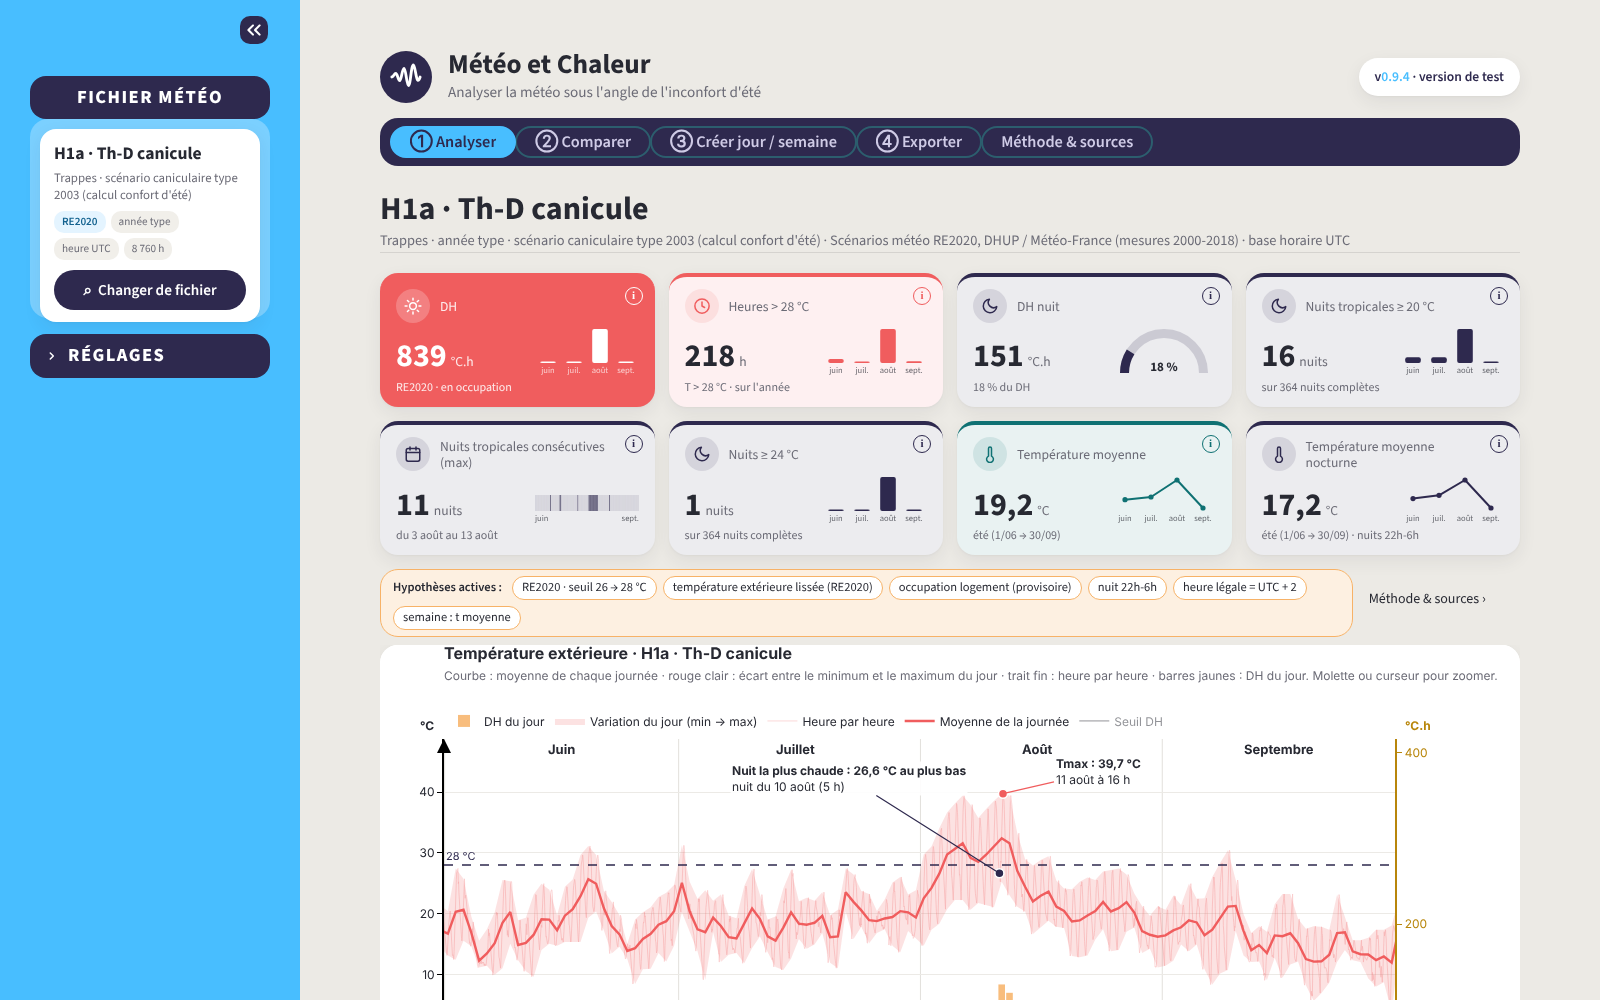
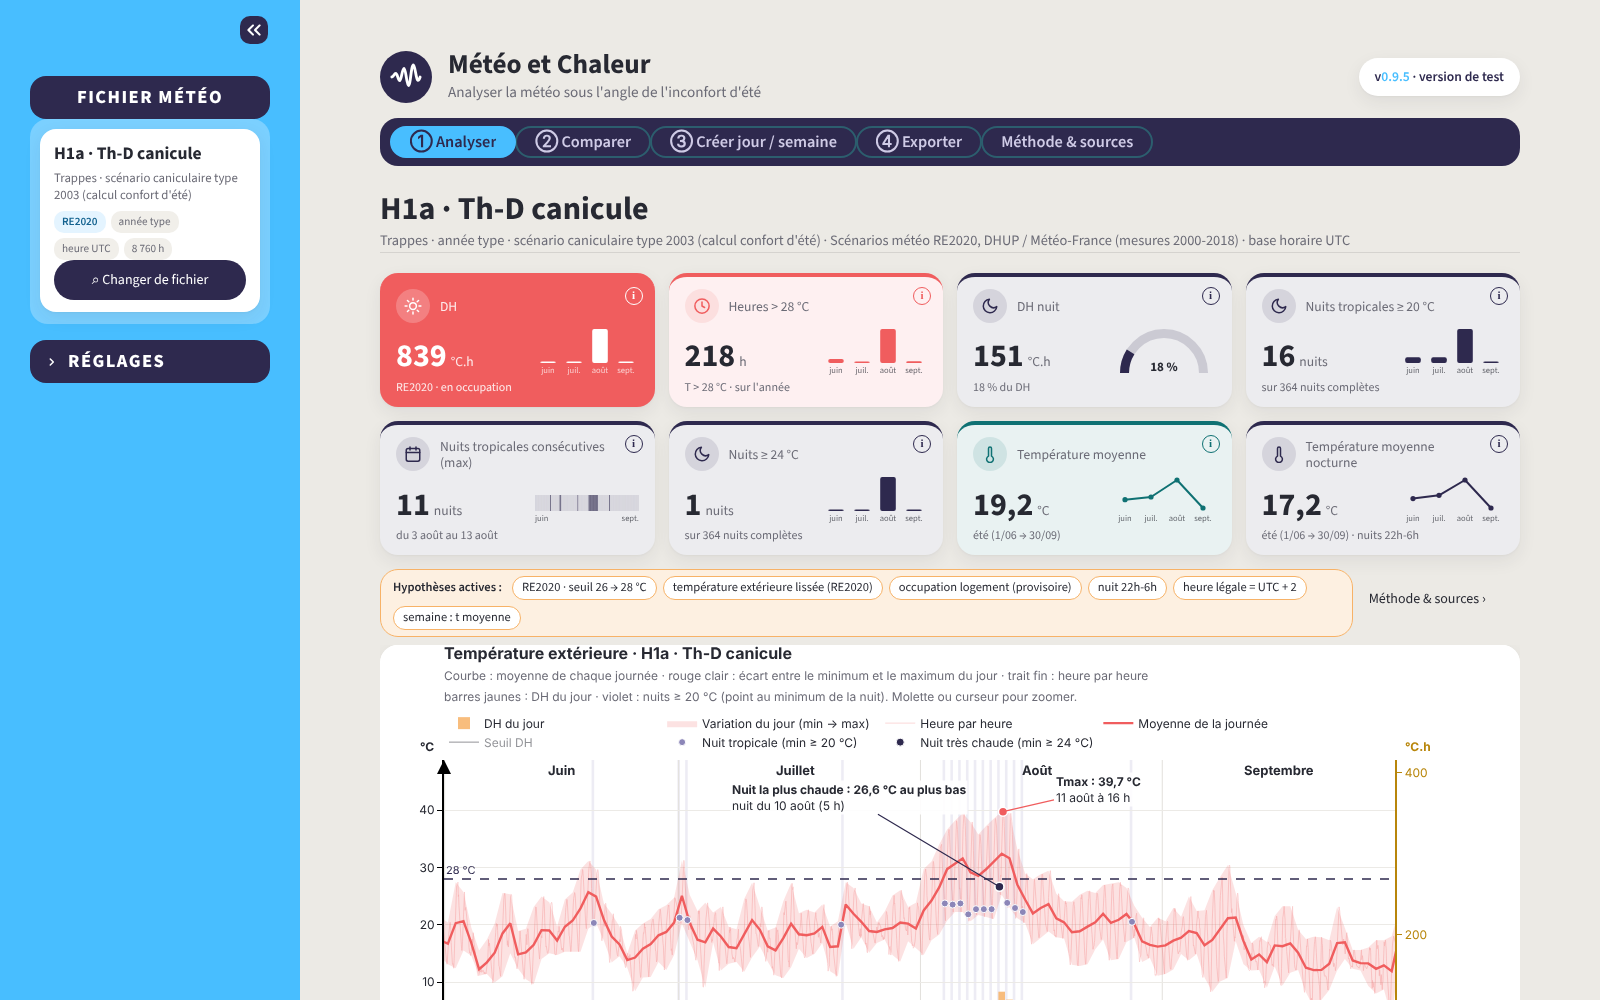
Météo et Chaleur 0.9.5 (version de test, corrections)
Tuiles de la fenêtre de choix cliquables sur toute leur surface ; retour de
la carte du fichier de la 0.9.2 ; nuits >= 20 °C sur le graphique de
l'année ; réglage d'occupation gardé à part des boutons (perdu à la première
ouverture) ; message Windows ConnectionResetError masqué.

Claude-Session: https://claude.ai/code/session_01As3wXfVy4qYwNJMef6KpLN

diff --git a/app.py b/app.py
@@ -27,12 +27,15 @@ from interface.composants import haut_de_page, pied
 # PARAMÈTRES
 # ============================================================
 TITRE_PAGE = "Météo et Chaleur"
-CLES_REGLAGE = {"methode": "r_methode", "occupation": "r_occupation",
+CLES_REGLAGE = {"methode": "r_methode", "occupation": "r_occupation",           # clés des boutons du menu
                 "critere_journee": "r_journee", "critere_semaine": "r_semaine"}
+CLE_REGLAGE_COURANT = "reglage_courant"  # réglage de référence, gardé à part des boutons (voir _reglage_courant)
+CLE_GENERATION_BOUTONS = "generation_boutons"   # change à chaque retour au réglage RE2020
 CLE_INDICATEURS = "r_indicateurs"        # ordre des cartes choisi dans le menu
 INDICATEURS_RESUME = ["dh", "nuits_20"]  # chiffres clés des cartes de la fenêtre de choix (+ T max)
 
 st.set_page_config(page_title=TITRE_PAGE, page_icon="☀", layout="wide")
+erreurs.filtrer_bruit_windows()          # console PowerShell : masque « ConnectionResetError [WinError 10054] »
 
 
 # ============================================================
@@ -81,9 +84,29 @@ CATALOGUE = _catalogue()
 # RÉGLAGES (barre latérale)
 # ============================================================
 
+def _reglage_courant() -> dict:
+    """
+    Réglage de référence (méthode, occupation, critères), gardé À PART des boutons du menu.
+    Raison : au premier chargement, la mémoire du navigateur relance la page pendant le calcul ; Streamlit
+    pouvait alors perdre l'état d'un bouton de la partie repliée (l'occupation repassait à « 24h/24 »).
+    Les calculs lisent ce réglage ; il ne change que quand l'utilisateur clique sur un bouton (_copier_bouton).
+    """
+    return st.session_state.setdefault(CLE_REGLAGE_COURANT, {k: REGLAGE_RE2020[k] for k in CLES_REGLAGE})
+
+
+def _cle_bouton(cle) -> str:
+    """Clé du bouton du menu ; elle change à chaque « Revenir au réglage RE2020 » (boutons recréés, affichage juste)."""
+    return f"{CLES_REGLAGE[cle]}_{st.session_state.setdefault(CLE_GENERATION_BOUTONS, 0)}"
+
+
+def _copier_bouton(cle):
+    """Clic sur un bouton du menu : sa valeur devient le réglage de référence."""
+    _reglage_courant()[cle] = st.session_state[_cle_bouton(cle)]
+
+
 def _reinitialiser():
-    for cle, cle_widget in CLES_REGLAGE.items():
-        st.session_state[cle_widget] = REGLAGE_RE2020[cle]
+    st.session_state[CLE_REGLAGE_COURANT] = {k: REGLAGE_RE2020[k] for k in CLES_REGLAGE}
+    st.session_state[CLE_GENERATION_BOUTONS] = st.session_state.get(CLE_GENERATION_BOUTONS, 0) + 1
     st.session_state["lignes"] = list(REGLAGE_RE2020["lignes"])
     st.session_state[CLE_INDICATEURS] = list(ORDRE_DEFAUT)
 
@@ -147,19 +170,21 @@ def barre_laterale():
     serie = serie_par_cle(choix_fichier.cle_courante(SOURCES))
     choix_fichier.menu(SOURCES, serie, lambda: choix_fichier.ouvrir("analyser", SOURCES))
 
-    for cle, cle_widget in CLES_REGLAGE.items():
-        st.session_state.setdefault(cle_widget, REGLAGE_RE2020[cle])
+    courant = _reglage_courant()
     st.session_state.setdefault("lignes", list(REGLAGE_RE2020["lignes"]))
     with st.sidebar.expander("RÉGLAGES", expanded=False, key="reglages"):
-        reglage = {
-            "methode": st.radio(LIBELLE_SEUILS_DH, list(LIBELLES_METHODE), format_func=LIBELLES_METHODE.get,
-                                horizontal=True, key="r_methode"),
-            "occupation": st.toggle("DH en occupation (logement)", key="r_occupation"),
-            "critere_journee": st.radio("Journée la + chaude selon", list(LIBELLES_CRITERE_JOURNEE),
-                                        format_func=LIBELLES_CRITERE_JOURNEE.get, horizontal=True, key="r_journee"),
-            "critere_semaine": st.radio("Semaine la + chaude selon", list(LIBELLES_CRITERE_SEMAINE),
-                                        format_func=LIBELLES_CRITERE_SEMAINE.get, key="r_semaine"),
-        }
+        methodes, journees, semaines = list(LIBELLES_METHODE), list(LIBELLES_CRITERE_JOURNEE), list(LIBELLES_CRITERE_SEMAINE)
+        st.radio(LIBELLE_SEUILS_DH, methodes, index=methodes.index(courant["methode"]), format_func=LIBELLES_METHODE.get,
+                 horizontal=True, key=_cle_bouton("methode"), on_change=_copier_bouton, args=("methode",))
+        st.toggle("DH en occupation (logement)", value=courant["occupation"], key=_cle_bouton("occupation"),
+                  on_change=_copier_bouton, args=("occupation",))
+        st.radio("Journée la + chaude selon", journees, index=journees.index(courant["critere_journee"]),
+                 format_func=LIBELLES_CRITERE_JOURNEE.get, horizontal=True, key=_cle_bouton("critere_journee"),
+                 on_change=_copier_bouton, args=("critere_journee",))
+        st.radio("Semaine la + chaude selon", semaines, index=semaines.index(courant["critere_semaine"]),
+                 format_func=LIBELLES_CRITERE_SEMAINE.get, key=_cle_bouton("critere_semaine"),
+                 on_change=_copier_bouton, args=("critere_semaine",))
+        reglage = dict(courant)                     # les calculs lisent le réglage de référence
         lignes = st.multiselect("Lignes horizontales (°C)", st.session_state["lignes"],
                                 default=st.session_state["lignes"], format_func=lambda v: f"{v:g} °C")
         col1, col2 = st.columns([3, 2])

diff --git a/interface/graphiques.py b/interface/graphiques.py
@@ -66,6 +66,7 @@ PART_DH_PERIODE = 1.5                 # semaine et journée : barres sur les deu
 # --- Nuits chaudes (Comparer) : une case par nuit, du clair au foncé ---
 COULEURS_NUITS = ["#ECEAF3", "#8C86B8", INDIGO]   # < 20 °C · tropicale (≥ 20 °C) · très chaude (≥ 24 °C)
 HAUTEUR_NUITS = 350
+FOND_NUIT_CHAUDE = "rgba(140,134,184,0.16)"   # bande violette claire sur chaque nuit tropicale (graphique de l'année)
 DEMI_HAUTEUR_CASE = 0.29              # demi-hauteur d'une rangée de cases (unités de l'axe Y) : cadre ajusté aux cases
 ECART_LIGNES_NUITS = 46               # px entre les deux rangées de nuits (place pour l'étiquette « de suite »)
 FORMAT_DATE = "%-d %B"                # « 10 juin » (mois en français grâce à CONFIG_PLOTLY)
@@ -219,9 +220,10 @@ def _ecart_texte(ecart):
 # ANALYSER — série de l'année
 # ============================================================
 
-def serie_annuelle(analyse, lignes, fenetre, source):
+def serie_annuelle(analyse, lignes, fenetre, source, seuil_tropical=20.0, seuil_tres_chaud=24.0, nuit_debut=22,
+                   nuit_fin=6):
     """Moyenne journalière + bande min-max (rouge clair) + horaire fin + DH du jour en barres jaunes,
-    extrêmes annotés, zoom."""
+    nuits ≥ 20 °C (bandes et points violets), extrêmes annotés, zoom."""
     s, jours = analyse.serie, analyse.jours
     midi = jours.index + pd.Timedelta(hours=12)
     fig = make_subplots(specs=[[{"secondary_y": True}]])
@@ -241,6 +243,22 @@ def serie_annuelle(analyse, lignes, fenetre, source):
     fig.add_trace(go.Scatter(x=s.horodatage, y=analyse.seuil, mode="lines", name="Seuil DH", visible="legendonly",
                              line=dict(color=GRIS, width=1, shape="hv"), hovertemplate="seuil %{y:.0f} °C"),
                   secondary_y=False)
+    # Nuits chaudes : bande violette claire sur la nuit + point au minimum de la nuit (couleurs de Comparer)
+    nuits = analyse.nuits_detail
+    for seuil, plafond, couleur, nom, taille in (
+            (seuil_tropical, seuil_tres_chaud, COULEURS_NUITS[1], f"Nuit tropicale (min ≥ {seuil_tropical:g} °C)", 7),
+            (seuil_tres_chaud, np.inf, COULEURS_NUITS[2], f"Nuit très chaude (min ≥ {seuil_tres_chaud:g} °C)", 8)):
+        choix = nuits[(nuits["tmin"] >= seuil) & (nuits["tmin"] < plafond)]
+        if choix.empty:
+            continue
+        fig.add_trace(go.Scatter(x=choix["quand"], y=choix["tmin"], mode="markers", name=nom,
+                                 marker=dict(color=couleur, size=taille, line=dict(color="white", width=1)),
+                                 customdata=[f"nuit du {jour_mois(d)}" for d in choix.index],
+                                 hovertemplate="%{customdata} : %{y:.1f} °C au plus bas<extra></extra>"),
+                      secondary_y=False)
+    for d in nuits.index[nuits["tmin"] >= seuil_tropical]:
+        fig.add_vrect(x0=d + pd.Timedelta(hours=nuit_debut), x1=d + pd.Timedelta(days=1, hours=nuit_fin),
+                      fillcolor=FOND_NUIT_CHAUDE, line_width=0, layer="below")
     # Extrêmes : température maximale et nuit la plus chaude (minimum nocturne le plus élevé)
     i_max = int(np.argmax(s.t))
     t_max = s.horodatage[i_max]
@@ -260,7 +278,9 @@ def serie_annuelle(analyse, lignes, fenetre, source):
                                 f"nuit du {jour_mois(n.name)} ({heure(n['quand'])})")
     styler(fig, f"Température extérieure · {s.libelle}",
            "Courbe : moyenne de chaque journée · rouge clair : écart entre le minimum et le maximum du jour · "
-           "trait fin : heure par heure · barres jaunes : DH du jour. Molette ou curseur pour zoomer.",
+           "trait fin : heure par heure<br>"
+           f"barres jaunes : DH du jour · violet : nuits ≥ {seuil_tropical:g} °C (point au minimum de la nuit). "
+           "Molette ou curseur pour zoomer.",
            HAUTEUR_PRINCIPAL, double_axe=True, source=source)
     axe_dh(fig, jours["dh"].max() if len(jours) else 1)
     lignes_horizontales(fig, lignes, sous_graphiques=True)

diff --git a/interface/composants.py b/interface/composants.py
@@ -171,11 +171,10 @@ CSS = f"""
   .cartouche .nom {{ font-size: 1.35rem; font-weight: 700; line-height: 1.2; }}
   .cartouche .meta {{ color: {GRIS_DOUX}; font-size: .82rem; }}
   /* --- Menu de gauche : carte du fichier en cours + récents (0.9.0) --- */
-  .carte-actuel {{ background: white; border-radius: 16px; padding: 14px 14px 12px; box-shadow: {OMBRE}; }}
-  .faux-bouton {{ margin-top: 10px; background: {INDIGO}; color: white; border-radius: 22px; padding: 8px 12px;
-                  text-align: center; font-weight: 600; font-size: .95rem; }}
-  .st-key-tuile_fichier_actuel:hover .faux-bouton {{ background: {INDIGO_SURVOL}; }}
-  .st-key-tuile_fichier_actuel:hover .carte-actuel {{ box-shadow: 0 2px 4px rgba(39,41,50,.08), 0 10px 24px rgba(39,41,50,.14); }}
+  .st-key-fichier_actuel {{ background: white; border-radius: 16px; padding: 14px 14px 12px; box-shadow: {OMBRE}; }}
+  .st-key-fichier_actuel button {{ background: {INDIGO}; color: white; border: none; border-radius: 22px;
+                                   font-weight: 600; }}
+  .st-key-fichier_actuel button:hover {{ background: {INDIGO_SURVOL}; color: white; }}
   .nom-actuel {{ font-weight: 700; font-size: 1.1rem; display: flex; align-items: center; gap: 8px; line-height: 1.2; }}
   .tuile .point {{ width: 11px; height: 11px; border-radius: 50%; flex: none; display: inline-block; }}
   .meta-actuel {{ color: {GRIS_DOUX}; font-size: .8rem; margin: 4px 0 8px; line-height: 1.35; }}
@@ -211,11 +210,15 @@ CSS = f"""
   /* tuile = dessin HTML + bouton Streamlit transparent posé par-dessus (toute la tuile est cliquable) */
   [class*="st-key-tuile_"] {{ position: relative; }}
   /*   l'enveloppe Streamlit du bouton (stElementContainer) couvre toute la tuile ; le bouton la remplit */
-  [class*="st-key-tuile_"] > [data-testid="stElementContainer"]:has([data-testid="stButton"]) {{
-      position: absolute; inset: 0; margin: 0; z-index: 2; }}
-  [class*="st-key-tuile_"] [data-testid="stButton"], [class*="st-key-tuile_"] [data-testid="stButton"] > div,
-  [class*="st-key-tuile_"] [data-testid="stButton"] button {{ width: 100%; height: 100%; }}
-  [class*="st-key-tuile_"] [data-testid="stButton"] button {{ opacity: 0; cursor: pointer; }}
+  /*   (classe de la clé du bouton : b_zone_… / b_fichier_… ; Streamlit donnait au bouton la largeur de son
+       texte, d'où une tuile cliquable seulement à gauche : largeur forcée à 100 %) */
+  [class*="st-key-b_zone_"], [class*="st-key-b_fichier_"] {{
+      position: absolute !important; top: 0; left: 0; right: 0; bottom: 0; width: 100% !important;
+      max-width: none !important; margin: 0; z-index: 2; }}
+  [class*="st-key-b_zone_"] [data-testid="stButton"], [class*="st-key-b_fichier_"] [data-testid="stButton"],
+  [class*="st-key-b_zone_"] button, [class*="st-key-b_fichier_"] button {{
+      width: 100% !important; max-width: none !important; height: 100% !important; }}
+  [class*="st-key-b_zone_"] button, [class*="st-key-b_fichier_"] button {{ opacity: 0; cursor: pointer; }}
   [class*="st-key-tuile_"]:hover .tuile:not(.choisie) {{ border-color: #C9C6BF; background: white; }}
   .tuile {{ border-radius: 14px; border: 1.5px solid #EEECE7; background: #FAF9F6; padding: 9px 12px; }}
   .tuile.choisie {{ border: 2.5px solid var(--c); background: var(--fond-choisi); }}

diff --git a/interface/choix_fichier.py b/interface/choix_fichier.py
@@ -168,13 +168,11 @@ def menu(src: Sources, serie, ouvrir_choix: Callable[[], None]):
     st.sidebar.markdown('<div class="titre-menu">Fichier météo</div>', unsafe_allow_html=True)
     recents = [c for c in st.session_state.get(CLE_RECENTS, []) if c != cle and c in cles_disponibles(src)]
     with st.sidebar.container(key="panneau_fichier"):          # panneau bleu clair : fichier en cours + récents
-        # toute la carte est cliquable : bouton transparent posé dessus (même principe que les tuiles de la fenêtre)
-        with st.container(key="tuile_fichier_actuel", gap=None):
-            st.markdown(f'<div class="carte-actuel"><div class="nom-actuel">{html.escape(serie.libelle)}</div>'
+        with st.container(key="fichier_actuel"):
+            st.markdown(f'<div class="nom-actuel">{html.escape(serie.libelle)}</div>'
                         f'<div class="meta-actuel">{html.escape(" · ".join(x for x in (i["station"], i["desc"]) if x))}'
-                        f'</div><div class="etiquettes">{_etiquettes(serie, i)}</div>'
-                        f'<div class="faux-bouton">⌕&nbsp; Changer de fichier</div></div>', unsafe_allow_html=True)
-            if st.button("Changer de fichier", key="ouvrir_choix", width="stretch"):
+                        f'</div><div class="etiquettes">{_etiquettes(serie, i)}</div>', unsafe_allow_html=True)
+            if st.button("⌕  Changer de fichier", key="ouvrir_choix", width="stretch"):
                 ouvrir_choix()
         if recents:
             with st.container(key="recents"):
@@ -281,7 +279,8 @@ def _carte_zones(src: Sources, couleur: str):
                         f'<div class="jauge"><div style="width:{100 * part:.0f}%;background:{_degrade(part)}"></div></div>'
                         f'<div class="chiffre">DH canicule <b>{nombre(dh[zone], 0)}</b></div></div>',
                         unsafe_allow_html=True)
-                    st.button(f"Zone {zone}", key=f"b_zone_{zone}", on_click=_choisir_zone, args=(zone, src))
+                    st.button(f"Zone {zone}", key=f"b_zone_{zone}", on_click=_choisir_zone, args=(zone, src),
+                              width="stretch")
 
 
 def _cartes_fichiers(cles: list, src: Sources, couleur: str, cle_en_cours: str, titre_long: bool,
@@ -306,7 +305,8 @@ def _cartes_fichiers(cles: list, src: Sources, couleur: str, cle_en_cours: str, 
                 f'<span class="nom">{html.escape(i["titre"] if titre_long else i["nom"])}</span>{badges}</div>'
                 f'<div class="desc">{html.escape(" · ".join(x for x in (i["desc"], precision) if x))}</div>'
                 f'<div class="chiffres">{chiffres}</div></div>', unsafe_allow_html=True)
-            st.button(f"Choisir {i['titre']}", key=f"b_fichier_{n}", on_click=_choisir_fichier, args=(cle,))
+            st.button(f"Choisir {i['titre']}", key=f"b_fichier_{n}", on_click=_choisir_fichier, args=(cle,),
+                      width="stretch")
 
 
 def _importer(src: Sources):

diff --git a/interface/erreurs.py b/interface/erreurs.py
@@ -14,6 +14,8 @@
 ============================================================
 """
 
+import logging
+import sys
 import traceback
 
 import streamlit as st
@@ -35,3 +37,25 @@ def afficher(ex: Exception):
     st.error(MESSAGE, icon="⚠")
     with st.expander("Détail de l'erreur (à copier)", expanded=False):
         st.code(detail, language=None)
+
+
+# ============================================================
+# BRUIT WINDOWS DANS LA CONSOLE
+# ============================================================
+# Sous Windows, quand le navigateur ferme ou recharge sa connexion, Python (asyncio) écrit dans la console
+# « Exception in callback _ProactorBasePipeTransport._call_connection_lost … ConnectionResetError
+# [WinError 10054] ». C'est sans conséquence pour l'outil : ces messages-là sont simplement filtrés.
+
+class _FiltreConnexionFermee(logging.Filter):
+    def filter(self, record: logging.LogRecord) -> bool:
+        exception = record.exc_info[1] if record.exc_info else None
+        return not isinstance(exception, (ConnectionResetError, ConnectionAbortedError))
+
+
+def filtrer_bruit_windows():
+    """À appeler au démarrage ; sans effet hors Windows, et posé une seule fois."""
+    if sys.platform != "win32":
+        return
+    journal = logging.getLogger("asyncio")
+    if not any(type(f).__name__ == "_FiltreConnexionFermee" for f in journal.filters):
+        journal.addFilter(_FiltreConnexionFermee())

diff --git a/interface/memoire.py b/interface/memoire.py
@@ -14,6 +14,7 @@
 ============================================================
 """
 
+import os
 from typing import Callable
 
 import streamlit as st
@@ -22,6 +23,7 @@ import streamlit as st
 # PARAMÈTRES
 # ============================================================
 CLE_COMPOSANT = "memoire_navigateur"
+VARIABLE_SANS_MEMOIRE = "METEO_SANS_MEMOIRE"   # variable d'environnement : =1 désactive la mémoire
 CLE_CHARGEE = "memoire_chargee"           # vrai quand le navigateur a été lu pour cette session
 CLE_ENVOYE = "memoire_envoyee"            # dernières valeurs envoyées au navigateur (évite les relances en boucle)
 # clé de session → nom dans le navigateur
@@ -30,6 +32,8 @@ A_GARDER = {"fichier_courant": "fichier", "fichiers_recents": "recents", "lignes
 
 
 def _gestionnaire():
+    if os.environ.get(VARIABLE_SANS_MEMOIRE) == "1":       # pour les tests : pas de mémoire du navigateur
+        return None
     try:
         from streamlit_extras.local_storage_manager import local_storage_manager
         return local_storage_manager(key=CLE_COMPOSANT)

diff --git a/interface/onglet_analyser.py b/interface/onglet_analyser.py
@@ -56,7 +56,9 @@ def afficher(analyse, resultats, reglage, hyp, aller_methode):
 
     s = analyse.serie
     avec_annee = not s.meta.get("periode", "").startswith("année type")
-    st.plotly_chart(g.serie_annuelle(analyse, reglage["lignes"], fenetre_ete(s, hyp), source(s)),
+    st.plotly_chart(g.serie_annuelle(analyse, reglage["lignes"], fenetre_ete(s, hyp), source(s),
+                                     valeur(hyp, "seuil_nuit_tropicale"), valeur(hyp, "seuil_nuit_tres_chaude"),
+                                     int(valeur(hyp, "nuit_debut")), int(valeur(hyp, "nuit_fin"))),
                     width="stretch", config=CONFIG_PLOTLY, theme=None)
 
     col_s, col_j = st.columns([2, 1])

diff --git a/config/reglages.py b/config/reglages.py
@@ -9,7 +9,7 @@
 """
 
 # --- Version (dernier chiffre pair = gros changement, impair = correction) ---
-VERSION = "0.9.4"
+VERSION = "0.9.5"
 STATUT_VERSION = "version de test"
 
 # --- Réglage par défaut (= RE2020) ---------------------------------------

diff --git a/CHANGELOG.md b/CHANGELOG.md
@@ -3,6 +3,21 @@
 Règle : `0.8.x` tant que l'outil ne fonctionnait pas bien, `0.9.x` depuis qu'il approche d'une version finale.
 Dernier chiffre **pair** = gros changement, **impair** = correction.
 
+## 0.9.5 — version de test (01/11/2026), corrections
+
+- Fenêtre de choix : les tuiles de zone et de fichier sont cliquables sur toute leur surface (le bouton
+  transparent n'avait que la largeur de son texte : seule la partie gauche réagissait).
+- Menu : retour à la carte du fichier en cours de la 0.9.2 (seul le bouton « Changer de fichier » l'ouvre),
+  sans pastille rouge.
+- Graphique de l'année (Analyser) : nuits ≥ 20 °C en bandes violettes claires, avec un point au minimum de
+  chaque nuit (plus foncé pour les nuits ≥ 24 °C).
+- Console Windows : le message sans conséquence « ConnectionResetError [WinError 10054] » (connexion fermée
+  par le navigateur) n'est plus affiché.
+- **Réglage d'occupation** : à la première ouverture après le démarrage, l'outil pouvait passer en « 24h/24 »
+  (DH 1 133 au lieu de 839 pour H1a Th-D) : la mémoire du navigateur relançait la page pendant le premier calcul
+  et Streamlit perdait l'état du bouton replié. Le réglage est maintenant gardé à part des boutons (8 premières
+  ouvertures sur 8 correctes) ; « Revenir au réglage RE2020 » remet aussi l'affichage des boutons.
+
 ## 0.9.4 — version de test (01/11/2026)
 
 - Bouton de repli du menu toujours visible, flèche blanche ; survol de « Réglages » : indigo éclairci.

diff --git a/README.md b/README.md
@@ -9,7 +9,7 @@ des journées ou des semaines types, et exporte les résultats.
 
 > Document non officiel. Les DH sont calculés sur la **température extérieure** : c'est un indicateur
 > de sévérité du climat, pas le DH d'un bâtiment.
-> Version 0.9.4, version de test.
+> Version 0.9.5, version de test.
 
 ![Capture d'écran de l'outil](docs/capture-accueil.png)
 
@@ -28,11 +28,12 @@ Par défaut, tout suit la méthode RE2020 (arrêté du 4 août 2021, annexe III,
 
 ## Comment l'utiliser en quatre étapes
 
-1. **Choisir le fichier météo** : dans le menu de gauche, cliquer sur la carte du fichier en cours.
+1. **Choisir le fichier météo** : dans le menu de gauche, bouton « Changer de fichier ».
    La fenêtre de choix propose une recherche, les familles de fichiers (RE2020, relevés…), les zones
    placées comme sur la carte de France, puis les fichiers de la zone avec leurs chiffres clés.
 2. **Lire l'onglet ① Analyser** : huit cartes d'indicateurs, l'année heure par heure (zoom à la
-   molette ou avec le curseur), puis la semaine et la journée les plus chaudes. La pastille « i » de
+   molette ou avec le curseur ; les nuits ≥ 20 °C en violet), puis la semaine et la journée les plus
+   chaudes. La pastille « i » de
    chaque carte donne la définition.
 3. **Comparer dans l'onglet ②** : le fichier en cours face à un second fichier (bouton « Changer le
    second fichier »). Tableau des écarts, été superposé, nuits chaudes nuit par nuit, journées et

diff --git a/docs/pages/07_versions.md b/docs/pages/07_versions.md
@@ -8,3 +8,5 @@
 0.9.2 : version de test. Onglet Exporter (copier-coller des indicateurs, CSV et Excel, 1 ou 2 fichiers) ; haut de page fixe ; réglages repliés ; nouvel ordre des cartes ; graphique des nuits chaudes dans Comparer ; seul l'onglet ouvert est calculé (plus rapide) ; choix gardés dans le navigateur.
 
 0.9.4 : version de test. Menu (bouton de repli toujours visible, carte du fichier entièrement cliquable), sources retirées sous les graphiques, nouveau pied de page avec le lien vers le code source, README réécrit.
+
+0.9.5 : corrections. Tuiles de la fenêtre de choix cliquables sur toute leur surface, retour de la carte du fichier de la 0.9.2 dans le menu, nuits ≥ 20 °C sur le graphique de l'année, message Windows sans conséquence masqué dans la console.
